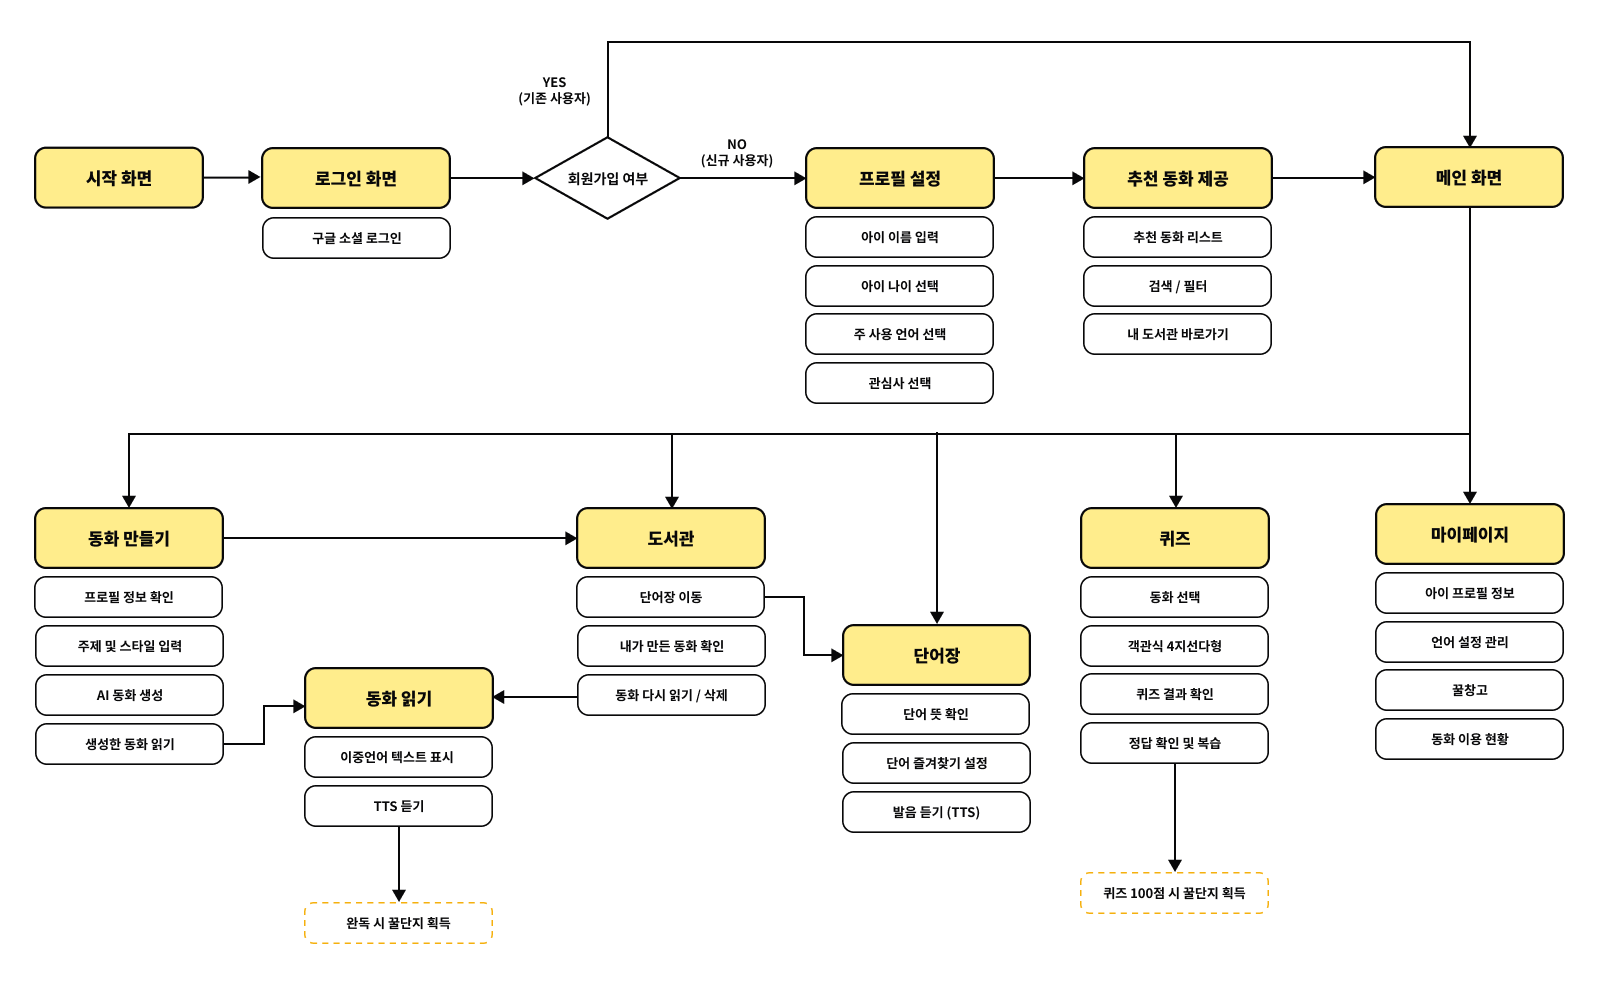
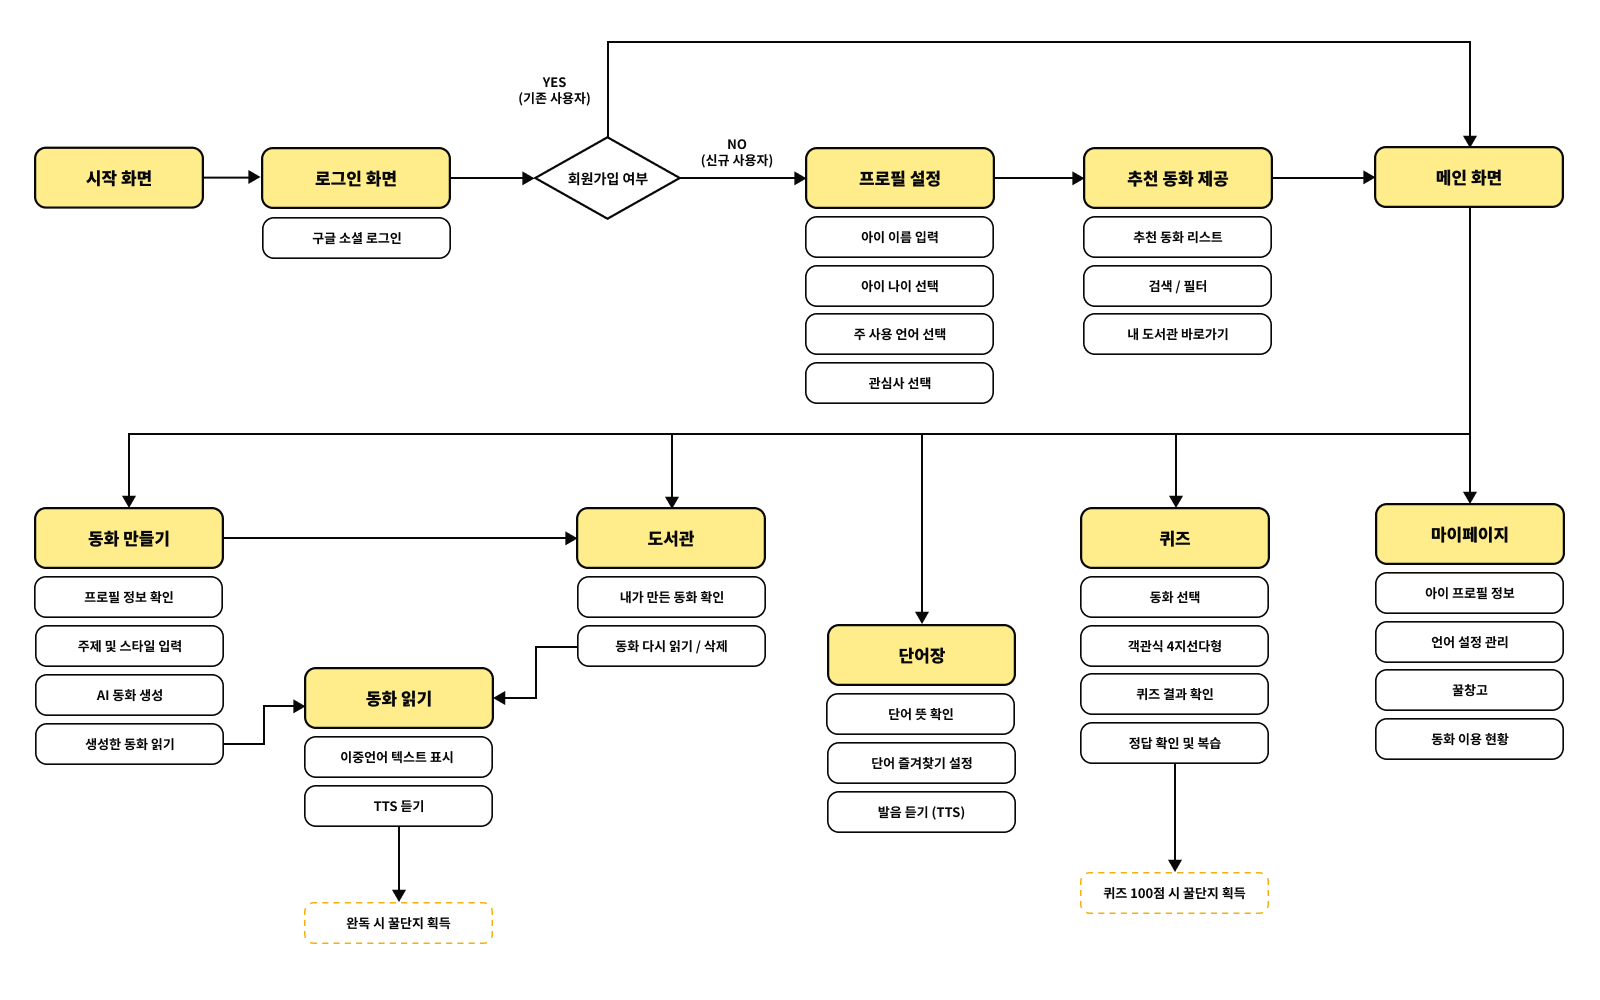
docs: README 수정

diff --git a/profile/README.md b/profile/README.md
@@ -42,9 +42,11 @@
 
 대한민국 여성가족부의 2024년 전국 다문화가족 실태조사(2025.07.31)에 따르면, 만 5세 이하 자녀를 둔 부모의 72.7%가 양육의 어려움을 겪고 있으며 17.8%는 자녀에게 한국어를 직접 가르치는 데 어려움을 느끼고 있습니다. 학령기 자녀를 둔 부모의 78.2%가 양육 부담을 경험하고 있고 19.7%는 학습 지도에, 4.4%는 자녀와의 대화에 어려움을 겪고 있다고 응답했습니다.
 
-UNESCO와 UNICEF는 아이가 이해할 수 있는 언어로 배우는 환경과 가족의 적극적인 참여가 아동의 성장과 학습에 중요한 역할을 한다고 강조합니다. 그러나 다문화 가정이 일상 속에서 함께 활용할 수 있는 이중언어 교육 콘텐츠와 가족 중심 학습 경험은 여전히 부족합니다.
+이러한 문제는 한국만의 문제가 아닙니다. UNESCO에 따르면 전 세계 인구의 약 40%는 자신이 이해하는 언어로 교육받지 못하고 있으며, 일부 국가에서는 그 비율이 90%에 달합니다. 전 세계 약 7,000개의 언어 중 실제 교육에 활용되는 언어는 351개에 불과합니다.
 
-이러한 문제는 다문화 가정이 함께 활용할 수 있는 새로운 형태의 언어 교육 경험의 필요성을 보여줍니다.
+UNESCO와 UNICEF는 아이가 이해할 수 있는 언어로 배우는 환경과 가족의 적극적인 참여가 아동의 성장과 학습에 중요한 역할을 한다고 강조합니다. 영유아기의 교육 경험은 평생의 학습 역량과 사회적 기회의 기반이 됩니다.
+
+그러나 다문화 가정이 일상 속에서 함께 활용할 수 있는 이중언어 교육 콘텐츠와 가족 중심 학습 경험은 여전히 부족합니다. 이러한 현실은 MORETALE과 같은 가족 참여형 이중언어 학습 경험의 필요성을 보여줍니다.
 
 ---
 
@@ -78,8 +80,7 @@ UNESCO와 UNICEF는 아이가 이해할 수 있는 언어로 배우는 환경과
 
 #### 🎓 ${\textsf{\color{red}Target\ 4.5:\ Inclusive\ Bilingual\ Education}}$
 
-다문화 가정다문화 가정의 아동은 언어적·문화적 배경으로 인해 교육 기회와 학습 경험에서 불평등을 겪을 수 있습니다. MORETALE은 아이의 언어 수준과 관심사를 반영한 AI 기반 이중언어 동화를 제공합니다. 읽기·듣기·퀴즈 활동을 하나의 이야기 안에 담아 가정 환경에 관계없이 양질의 학습 경험을 제공하고 지속적인 언어 학습을 지원합니다.
-의 아동은 언어적·문화적 배경으로 인해 교육 기회와 학습 경험에서 불평등을 겪을 수 있습니다. MORETALE은 아이의 언어 수준과 관심사를 반영한 AI 기반 이중언어 동화를 제공합니다. 읽기·듣기·퀴즈 활동을 하나의 이야기 안에 담아 가정 환경에 관계없이 양질의 학습 경험을 제공하고 지속적인 언어 학습을 지원합니다.
+다문화 가정의 아동은 언어적·문화적 배경으로 인해 교육 기회와 학습 경험에서 불평등을 겪을 수 있습니다. MORETALE은 아이의 언어 수준과 관심사를 반영한 AI 기반 이중언어 동화를 제공합니다. 읽기·듣기·퀴즈 활동을 하나의 이야기 안에 담아 가정 환경에 관계없이 양질의 학습 경험을 제공하고 지속적인 언어 학습을 지원합니다.
 
 #### 🤝 ${\textsf{\color{magenta}Target\ 10.2:\ Promoting\ Social\ Inclusion}}$
 